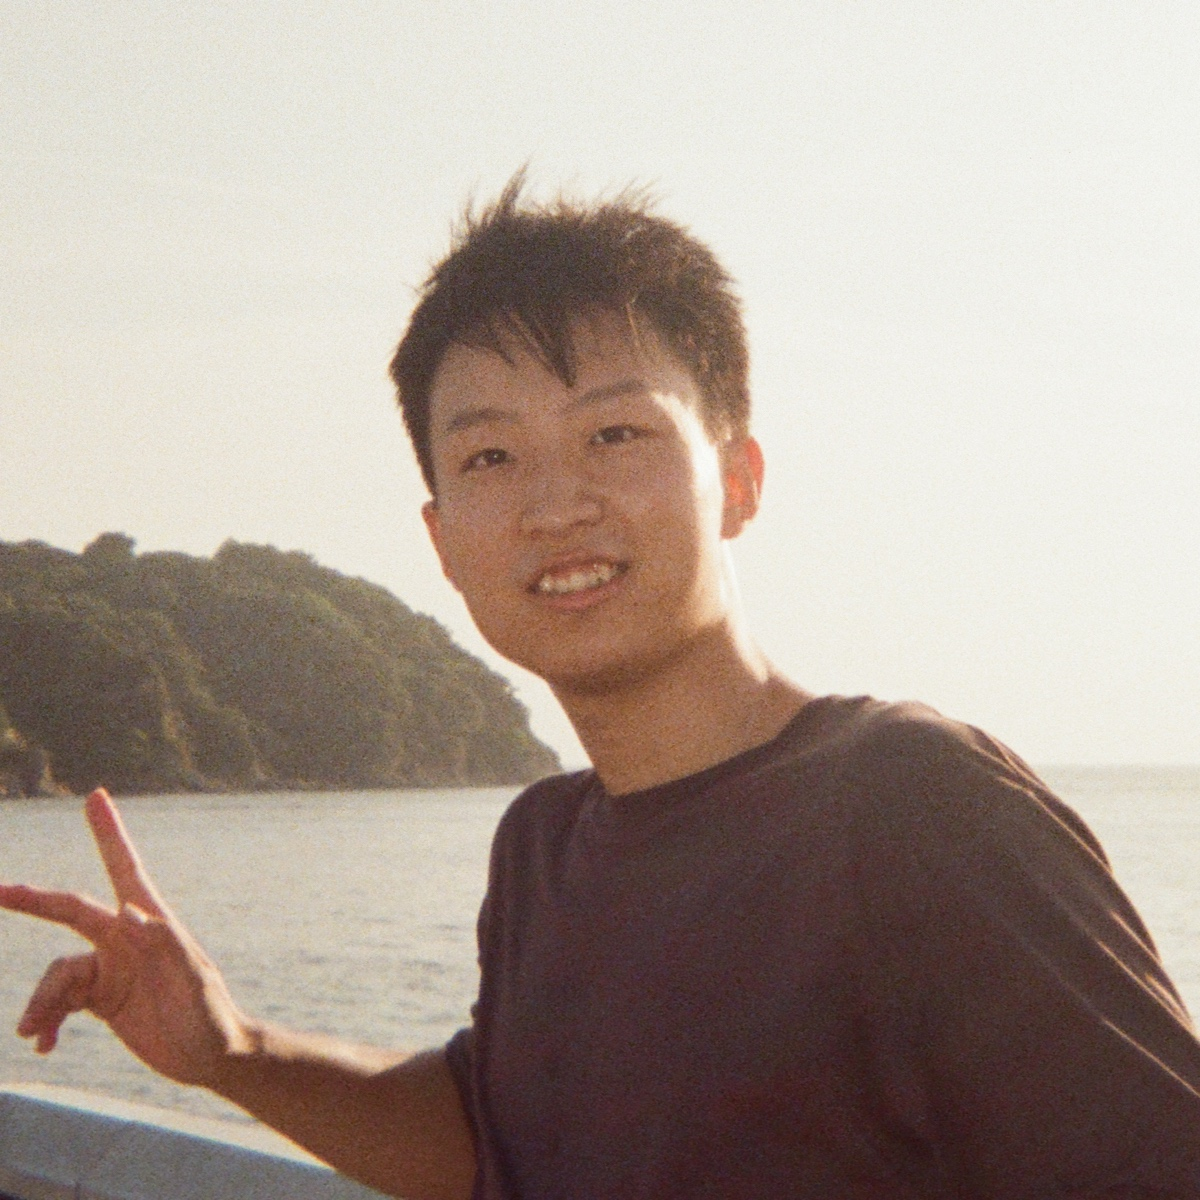
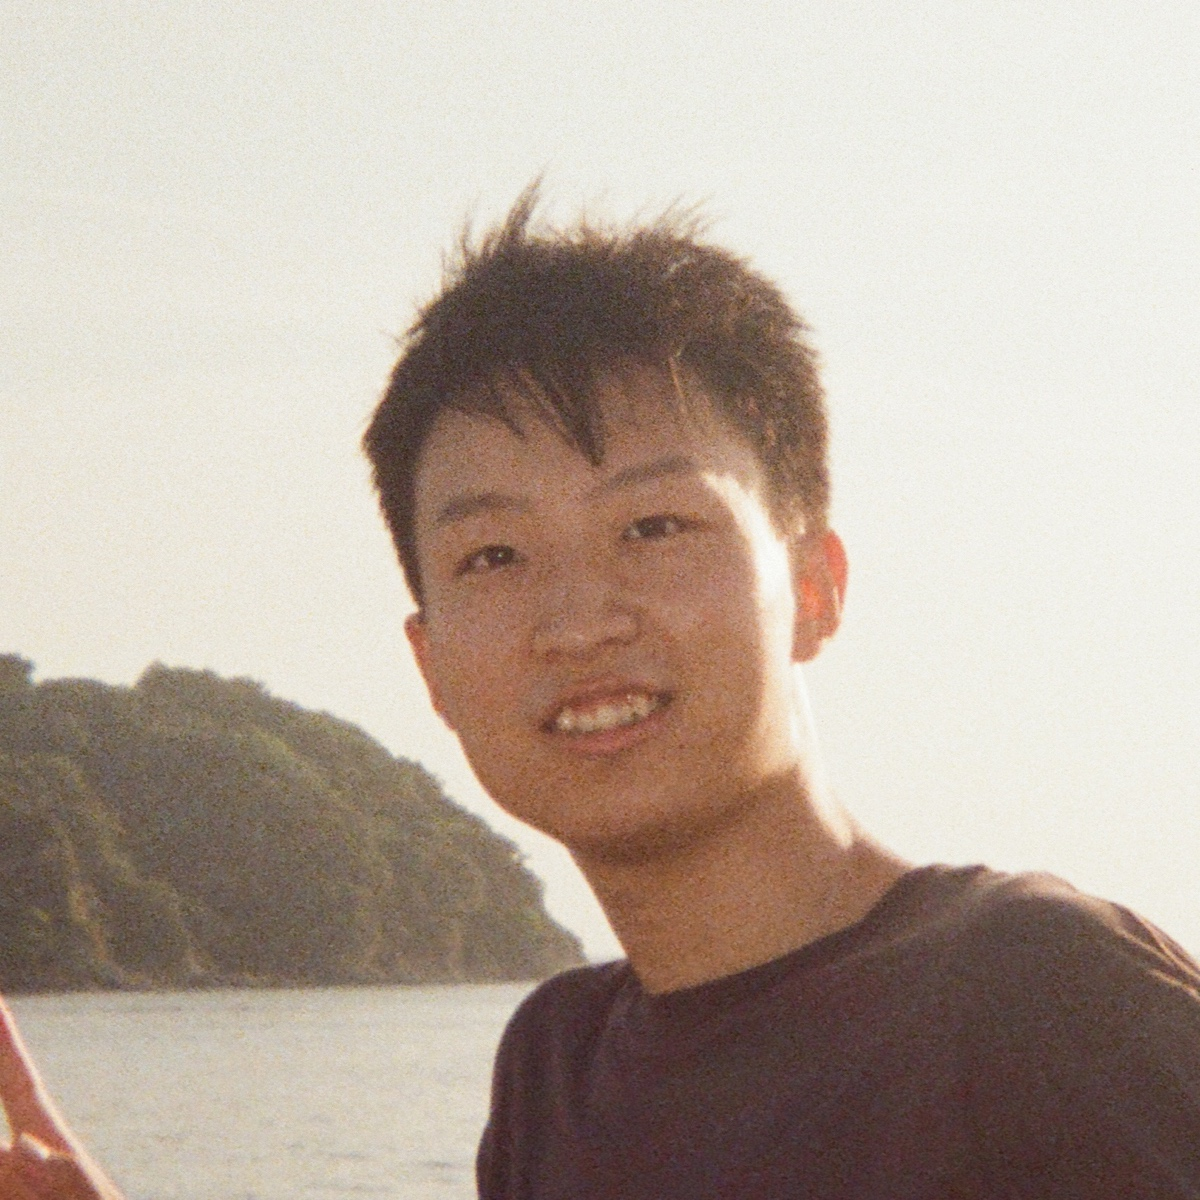
fix: enlarge and tighten portrait

diff --git a/src/assets/index.css b/src/assets/index.css
@@ -121,14 +121,14 @@ main {
 }
 .hero {
   display: grid;
-  grid-template-columns: minmax(0, 1fr) 184px;
-  gap: 56px;
+  grid-template-columns: minmax(0, 1fr) 228px;
+  gap: 48px;
   align-items: center;
   padding-bottom: 44px;
 }
-.hero img {
-  width: 172px;
-  height: 172px;
+.hero-portrait-large {
+  width: 216px;
+  height: 216px;
   object-fit: cover;
   border-radius: 50%;
   filter: saturate(0.78);
@@ -351,12 +351,12 @@ footer {
     padding-top: 52px;
   }
   .hero {
-    grid-template-columns: 1fr 94px;
+    grid-template-columns: 1fr 116px;
     gap: 18px;
   }
-  .hero img {
-    width: 90px;
-    height: 90px;
+  .hero-portrait-large {
+    width: 108px;
+    height: 108px;
     align-self: start;
   }
   .profile-links {

diff --git a/src/pages/home.tsx b/src/pages/home.tsx
@@ -35,7 +35,11 @@ export function HomePage({ content }: { content: SiteContent }) {
             </a>
           </div>
         </div>
-        <img src="/Avatar.jpg" alt="Portrait of Haotian Liu" />
+        <img
+          className="hero-portrait-large"
+          src="/Avatar.jpg"
+          alt="Portrait of Haotian Liu"
+        />
       </section>
 
       <section className="about" aria-label="About">

diff --git a/src/pages/pages.test.tsx b/src/pages/pages.test.tsx
@@ -21,6 +21,9 @@ describe('academic pages', () => {
 
   it('uses the high-resolution local portrait', () => {
     render(<HomePage content={SITE_CONTENT.en} />);
+    expect(screen.getByAltText('Portrait of Haotian Liu')).toHaveClass(
+      'hero-portrait-large',
+    );
     expect(screen.getByAltText('Portrait of Haotian Liu')).toHaveAttribute(
       'src',
       '/Avatar.jpg',
